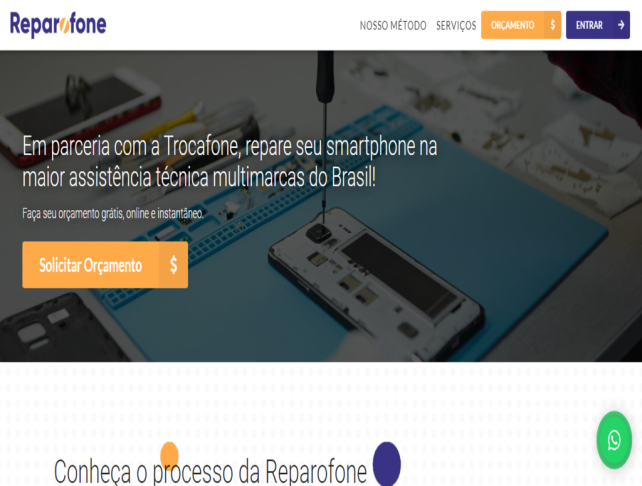
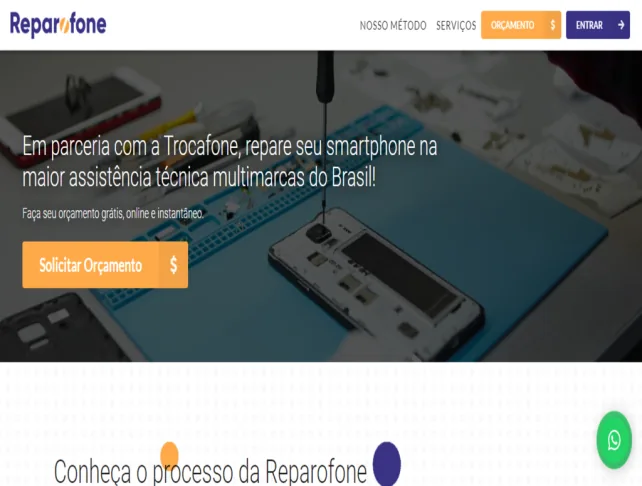
perf: start the largest paints at once and trim the mono font and a preview
The hero's title, text and illustration no longer wait to enter, JetBrains Mono
loads in one weight, and the Reparofone preview, nearly all photo, goes lossy.

diff --git a/src/app/about-me/styles.css b/src/app/about-me/styles.css
@@ -91,13 +91,14 @@
 /* Each element enters a little after the previous one. CSS keeps the text
    visible from the first paint, without waiting for JavaScript. */
 .hero__reveal {
-  animation: hero-in 0.9s var(--ease-out) both;
-  animation-delay: calc(0.1s + var(--i, 0) * 0.08s);
+  animation: hero-in 0.8s var(--ease-out) both;
+  animation-delay: calc(0.06s + var(--i, 0) * 0.06s);
 }
 
-/* The title, the largest thing on the first screen, starts at once: its
-   delay is what the page's largest paint had to wait for. */
-.hero__title-line.hero__reveal {
+/* The largest things on the first screen start at once: their delay was what
+   the page's largest paint had to wait for. */
+.hero__title-line.hero__reveal,
+.hero__tagline.hero__reveal {
   animation-delay: 0s;
 }
 
@@ -222,7 +223,7 @@
   position: relative;
   display: grid;
   place-items: center;
-  animation: hero-visual-in 1.1s var(--ease-out) 0.25s both;
+  animation: hero-visual-in 0.9s var(--ease-out) both;
 }
 
 .hero__halo {

diff --git a/src/app/[lang]/layout.tsx b/src/app/[lang]/layout.tsx
@@ -29,9 +29,11 @@ const display = Bricolage_Grotesque({
   variable: '--font-display',
 });
 // For the small technical labels, as --font-mono. Only in small text, so it is
-// not preloaded: the page does not wait for it.
+// not preloaded, and in one weight, half the size of the variable font: the page
+// does not wait for it.
 const mono = JetBrains_Mono({
   subsets: ['latin'],
+  weight: '500',
   variable: '--font-mono',
   preload: false,
 });

diff --git a/src/app/about-me/index.tsx b/src/app/about-me/index.tsx
@@ -153,6 +153,7 @@ export default function Hero({
               alt={format(t.illustration, { name: profile.name })}
               unoptimized
               priority
+              fetchPriority="high"
             />
             <svg
               className="hero__leaders"

diff --git a/AGENTS.md b/AGENTS.md
@@ -131,7 +131,7 @@ O projeto usa o App Router. As seções são componentes de servidor quando não
 - O que só aparece durante uma animação contínua, como o anel que pulsa no cargo atual, fica invisível fora dela. O Playwright para as animações nas capturas, e um elemento parado por cima de outro mudava um nível de cor na borda a cada execução. O framer-motion serve só às entradas que acontecem uma vez, com componentes `m.` dentro do `LazyMotion`; não use `motion.`, que traria o pacote inteiro no primeiro carregamento. A entrada do topo é CSS, para o texto aparecer no primeiro desenho da página, sem esperar o JavaScript. Toda animação respeita `prefers-reduced-motion`: as de CSS por media query e as do framer-motion pelo `MotionConfig`.
 - Botões e links fora do texto corrido têm área de toque de pelo menos 24 px. Num link pequeno, o `padding-block` aumenta só a área de toque: num link dentro da linha ele não move o texto, e num `inline-flex` uma margem negativa compensa, como no "Back to top" do rodapé.
 - Ícones vêm de `src/components/Icon`, um componente por ícone: os contornos do Rune Icons (Apache 2.0, com a licença ao lado), mais o foguete e o capelo, no mesmo grid, e as marcas de LinkedIn, GitHub e WhatsApp. O pacote `runeicons-react` guarda todos num mapa que o bundler não consegue cortar, de 1,7 MB, então só os ícones em uso ficam no projeto; ao precisar de outro, acrescente-o ali. O `.icon` do `globals.css` dá a eles o tamanho do texto ao redor.
-- Imagens são exibidas com `next/image`, com `unoptimized`, e ficam em WebP dentro de `public/images/`. As do código, como a ilustração do topo e os aparelhos dos projetos, são importadas estaticamente; as do conteúdo são caminhos, com o tamanho lido do arquivo. Capturas de tela, mockups e ilustrações usam WebP sem perdas, que mantém cada pixel do PNG original. Fotos usam WebP com qualidade 82 e lado menor de 1200 px, o bastante para os cartões em telas de alta densidade, mantendo o perfil de cor (as fotos de celular vêm em Display P3).
+- Imagens são exibidas com `next/image`, com `unoptimized`, e ficam em WebP dentro de `public/images/`. As do código, como a ilustração do topo e os aparelhos dos projetos, são importadas estaticamente; as do conteúdo são caminhos, com o tamanho lido do arquivo. Capturas de tela, mockups e ilustrações usam WebP sem perdas, que mantém cada pixel do PNG original, a não ser que sejam quase só foto, como a prévia do Reparofone, com a mesma qualidade 82 das fotos: sem perdas, ela pesava 180 KB. Fotos usam WebP com qualidade 82 e lado menor de 1200 px, o bastante para os cartões em telas de alta densidade, mantendo o perfil de cor (as fotos de celular vêm em Display P3).
 - Remova metadados, como localização, de qualquer foto antes de publicá-la. As fotos de contribuição tinham coordenadas GPS no EXIF. Uma forma de converter uma foto com o `sharp` é `sharp(origem).resize({ width: 1200 }).keepIccProfile().webp({ quality: 82, effort: 6 }).toFile(destino)`, que descarta o EXIF. Use `height` no lugar de `width` para fotos na horizontal.
 - As imagens carregam conforme a rolagem se aproxima delas, o padrão do `next/image`; só a ilustração do topo carrega antes (`priority`). Os diálogos só existem enquanto estão abertos, então a imagem grande de cada projeto só baixa quando o visitante abre os detalhes. Mantenha as imagens leves: uma imagem mostrada pequena ganha uma cópia com o dobro do tamanho em que aparece, como as miniaturas `*-thumb.webp` das contribuições, cujos originais só abrem no visualizador, e as prévias dos sites nos aparelhos dos projetos.
 - O projeto tem poucas dependências de produção. Evite adicionar novas e justifique no PR quando for necessário.
